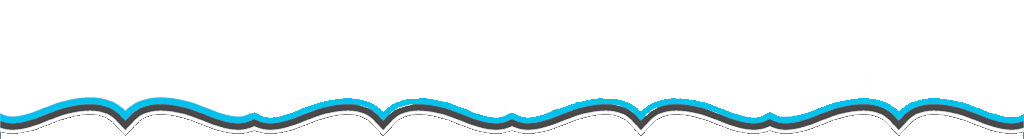
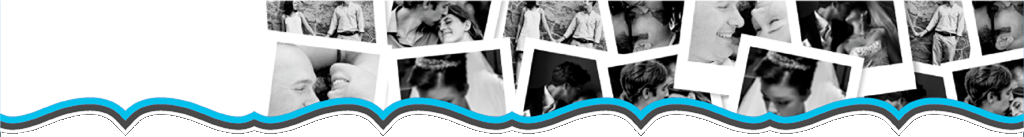
created header

diff --git a/static/css/style.css b/static/css/style.css
@@ -1,13 +1,23 @@
 body {
-	background-color: #494949;
+	background-color: #5a5a5a;
 	margin: 0px;
 	padding: 0px;
 }
 
 #real_body {
-	background: url('/public/img/site/header.png') no-repeat;
+	background-color: #4a4a4a;
 	width: 1024px;
-	min-height: 200px;
+	min-height: 600px;
 	height: 100%;
 	margin: 0px auto;
+	padding: 0px;
+}
+
+#header {
+	background: url('/public/img/site/header.png') no-repeat;
+	min-height: 140px;
+}
+
+#header_logo {
+	padding: 40px 50px;
 }

diff --git a/application/helpers/page_helper.php b/application/helpers/page_helper.php
@@ -1,0 +1,18 @@
+<?php if ( ! defined('BASEPATH')) exit('No direct script access allowed');
+
+/**
+ * Page Helper
+ *
+ * Generates parts of a page.
+ */
+
+function generateHeader()
+{
+	return '<div id="header">
+		<div id="header_logo">
+			<a href="/"><img src="/public/img/site/logo.png" /></a>
+		</div>
+	</div>';
+}
+
+/* Location: application/helpers/page_helper.php */ 

diff --git a/application/config/autoload.php b/application/config/autoload.php
@@ -64,7 +64,7 @@ $autoload['libraries'] = array('database', 'session', 'form_validation', 'ion_au
 |	$autoload['helper'] = array('url', 'file');
 */
 
-$autoload['helper'] = array('url', 'doctypes');
+$autoload['helper'] = array('url', 'doctypes', 'page');
 
 
 /*

diff --git a/application/views/home/index.php b/application/views/home/index.php
@@ -1,3 +1,4 @@
 <div id="real_body">
+	<?=generateHeader();?>
 	
 </div>
